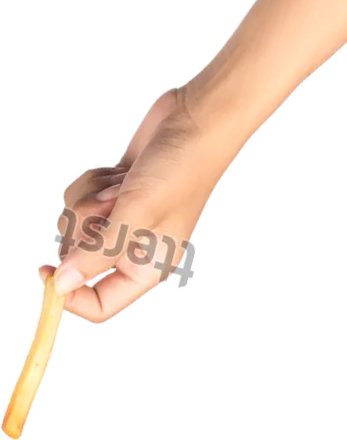
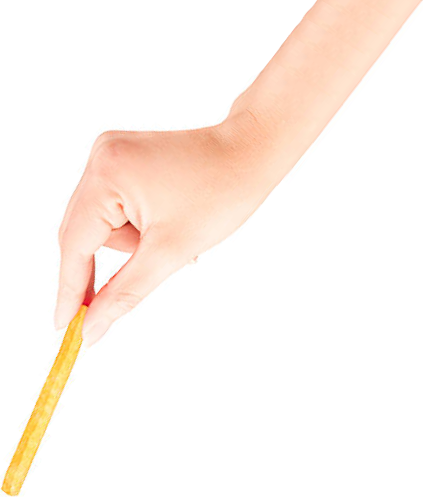
New hand image and more animations

Changed region(s): [[0.0, 0.0, 1.0, 1.0]]

diff --git a/pug/script.js b/pug/script.js
@@ -13,10 +13,6 @@ window.onresize = function(event) {
 };
 
 function onResize() {
-	// let pugWidth = parseInt($("#pug").css("width"), 10);
-	// let pugHeight = imageAspectRatio*pugWidth;
- //    $("#pug").css("height", pugHeight);
-
 	let pugHeight = parseInt($("#pug").css("height"), 10);
 	initialTranslation = -pugHeight;
 	i = 0;
@@ -27,12 +23,18 @@ function onResize() {
 function draw() {
 
 	let jumpHeight = parseInt($(document).height(), 10) / 10;
+	let scale = 1.03 - (0.03 * Math.sin(i));
 
-	let yOffset = Math.min(jumpHeight * Math.sin(i), 0);
+
+	let pugHeight = parseInt($("#pug").css("height"), 10);
+
+	let scaleOffset = pugHeight - (scale * pugHeight);
+	let yOffset = Math.min(jumpHeight * Math.sin(i), 0) + scaleOffset;
 
 	let translation = "translateY(" + (initialTranslation + yOffset - 25) + "px)";
+	let scaleString = "scaleY(" + scale + ")";
 
-	$("#pug").css("transform", translation);
+	$("#pug").css("transform", translation + " " + scaleString);
 
 	i += 0.1;
 }

diff --git a/pug/index.html b/pug/index.html
@@ -39,6 +39,11 @@
 		
 		#hand {
 			height: 100%;
+			transform-origin: 85% 0%;
+			animation: rotate-hand linear 8s infinite;
+			animation-timing-function: ease-in-out;
+			position: relative;
+			top: -5px;
 		}
 
 		#pug {
@@ -60,6 +65,24 @@
 			font-style: normal;
 			font-variant: normal;
 			text-transform: none;
+		}
+
+		@keyframes rotate-hand {
+			0% {
+				transform: rotate(0deg);
+			}
+			25% {
+				transform: rotate(-6deg);
+			}
+			50% {
+				transform: rotate(0deg);
+			}
+			75% {
+				transform: rotate(6deg);
+			}
+			100% {
+				transform: rotate(0deg);
+			}
 		}
 
 	</style>
